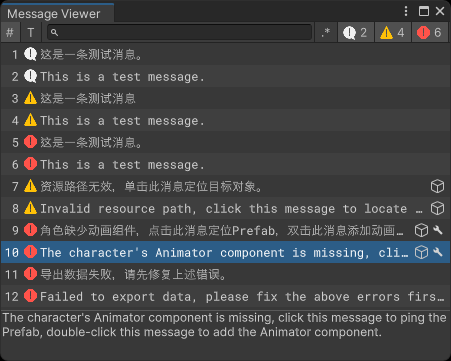
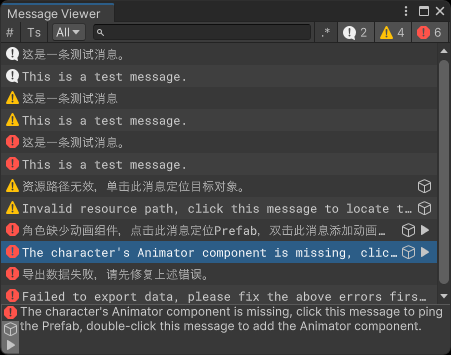
feat: message details tab

Changed region(s): [[0.0, 0.031, 1.0, 1.0], [0.745, 0.093, 0.8071, 0.1239]]

diff --git a/Editor/MessageDetailsElement.cs b/Editor/MessageDetailsElement.cs
@@ -1,4 +1,6 @@
-using UnityEngine.UIElements;
+using System;
+using UnityEditor.VersionControl;
+using UnityEngine.UIElements;
 
 namespace GBG.EditorMessages.Editor
 {
@@ -8,7 +10,8 @@ namespace GBG.EditorMessages.Editor
         private readonly MessageDetailsTabElement _messageTab;
         private readonly MessageDetailsTabElement _contextTab;
         private readonly MessageDetailsTabElement _customDataTab;
-        private readonly Label _detailsLabel;
+        private readonly Label _contentLabel;
+        private Message _message;
 
 
         public MessageDetailsElement()
@@ -69,7 +72,7 @@ namespace GBG.EditorMessages.Editor
             detailsContainer.Add(detailsScrollView);
 
             // Message Details Label
-            _detailsLabel = new Label
+            _contentLabel = new Label
             {
                 enableRichText = true,
                 selection = { isSelectable = true, },
@@ -79,19 +82,44 @@ namespace GBG.EditorMessages.Editor
                     whiteSpace = WhiteSpace.Normal,
                 }
             };
-            detailsScrollView.Add(_detailsLabel);
+            detailsScrollView.Add(_contentLabel);
 
             #endregion
         }
 
         public void SetMessage(Message message)
         {
-            _detailsLabel.text = message?.Content;
+            _message = message;
+
+            MessageType messageType = message?.type ?? MessageType.Info;
+            switch (messageType)
+            {
+                case MessageType.Info:
+                    _messageTab.Icon.image = EditorMessageUtility.GetInfoIcon();
+                    break;
+                case MessageType.Warning:
+                    _messageTab.Icon.image = EditorMessageUtility.GetWarningIcon();
+                    break;
+                case MessageType.Error:
+                    _messageTab.Icon.image = EditorMessageUtility.GetErrorIcon();
+                    break;
+                default:
+                    throw new ArgumentOutOfRangeException(nameof(messageType), messageType, null);
+            }
+
+            _contextTab.style.display = string.IsNullOrEmpty(message?.context)
+                ? DisplayStyle.None : DisplayStyle.Flex;
+            _customDataTab.style.display = string.IsNullOrEmpty(message?.customData)
+                ? DisplayStyle.None : DisplayStyle.Flex;
+
+            OnClickMessageTab();
         }
 
 
         private void OnClickMessageTab()
         {
+            _contentLabel.text = _message?.content;
+
             _messageTab.style.backgroundColor = EditorMessageUtility.ActiveColor;
             _contextTab.style.backgroundColor = EditorMessageUtility.InactiveColor;
             _customDataTab.style.backgroundColor = EditorMessageUtility.InactiveColor;
@@ -99,6 +127,8 @@ namespace GBG.EditorMessages.Editor
 
         private void OnClickContextTab()
         {
+            _contentLabel.text = _message?.context;
+
             _messageTab.style.backgroundColor = EditorMessageUtility.InactiveColor;
             _contextTab.style.backgroundColor = EditorMessageUtility.ActiveColor;
             _customDataTab.style.backgroundColor = EditorMessageUtility.InactiveColor;
@@ -106,6 +136,8 @@ namespace GBG.EditorMessages.Editor
 
         private void OnClickCustomDataTab()
         {
+            _contentLabel.text = _message?.customData;
+
             _messageTab.style.backgroundColor = EditorMessageUtility.InactiveColor;
             _contextTab.style.backgroundColor = EditorMessageUtility.InactiveColor;
             _customDataTab.style.backgroundColor = EditorMessageUtility.ActiveColor;

diff --git a/Editor/MessageElement.cs b/Editor/MessageElement.cs
@@ -138,8 +138,8 @@ namespace GBG.EditorMessages.Editor
             Message = message;
             LineNumber = lineNumber;
             LineNumberLabelWidth = lineNumberLabelWidth;
-            TypeImage.image = EditorMessageUtility.GetMessageTypeIcon(message.Type);
-            ContentLabel.text = message.Content;
+            TypeImage.image = EditorMessageUtility.GetMessageTypeIcon(message.type);
+            ContentLabel.text = message.content;
 
             UpdateLineNumberLabel();
             UpdateTimestampLabel();
@@ -169,14 +169,14 @@ namespace GBG.EditorMessages.Editor
                 return;
             }
 
-            TimestampLabel.text = new DateTime(Message.Timestamp).ToString(CultureInfo.CurrentCulture);
+            TimestampLabel.text = new DateTime(Message.timestamp).ToString(CultureInfo.CurrentCulture);
             TimestampLabel.style.display = DisplayStyle.Flex;
             TimestampSeparatorLabel.style.display = DisplayStyle.Flex;
         }
 
         private void UpdateContextImage()
         {
-            if (string.IsNullOrEmpty(Message.Context))
+            if (string.IsNullOrEmpty(Message.context))
             {
                 ContextImage.style.display = DisplayStyle.None;
                 return;
@@ -188,7 +188,7 @@ namespace GBG.EditorMessages.Editor
 
         private void UpdateCustomDataImage()
         {
-            if (string.IsNullOrEmpty(Message.CustomData))
+            if (string.IsNullOrEmpty(Message.customData))
             {
                 CustomDataImage.style.display = DisplayStyle.None;
                 return;
@@ -208,7 +208,7 @@ namespace GBG.EditorMessages.Editor
                     EditorGUIUtility.PingObject(context);
                 }
             }
-            else if (evt.clickCount == 2 && !string.IsNullOrEmpty(Message?.CustomData))
+            else if (evt.clickCount == 2 && !string.IsNullOrEmpty(Message?.customData))
             {
                 if (WantsToProcessCustomData != null)
                 {
@@ -226,18 +226,18 @@ namespace GBG.EditorMessages.Editor
             GenericMenu menu = new GenericMenu();
 
             // Copy Content
-            menu.AddItem(new GUIContent("Copy Content"), false, () => EditorGUIUtility.systemCopyBuffer = Message.Content);
+            menu.AddItem(new GUIContent("Copy Content"), false, () => EditorGUIUtility.systemCopyBuffer = Message.content);
 
             // Copy Context
-            if (!string.IsNullOrEmpty(Message.Context))
+            if (!string.IsNullOrEmpty(Message.context))
             {
-                menu.AddItem(new GUIContent("Copy Context"), false, () => EditorGUIUtility.systemCopyBuffer = Message.Context);
+                menu.AddItem(new GUIContent("Copy Context"), false, () => EditorGUIUtility.systemCopyBuffer = Message.context);
             }
 
             // Copy Custom Data
-            if (!string.IsNullOrEmpty(Message.CustomData))
+            if (!string.IsNullOrEmpty(Message.customData))
             {
-                menu.AddItem(new GUIContent("Copy Custom Data"), false, () => EditorGUIUtility.systemCopyBuffer = Message.CustomData);
+                menu.AddItem(new GUIContent("Copy Custom Data"), false, () => EditorGUIUtility.systemCopyBuffer = Message.customData);
             }
 
             menu.ShowAsContext();

diff --git a/Editor/MessageViewer.cs b/Editor/MessageViewer.cs
@@ -436,7 +436,7 @@ namespace GBG.EditorMessages.Editor
 
         private bool TestMessageType(Message message)
         {
-            switch (message.Type)
+            switch (message.type)
             {
                 case MessageType.Info:
                     return _showInfoMessages;
@@ -448,7 +448,7 @@ namespace GBG.EditorMessages.Editor
                     return _showErrorMessage;
 
                 default:
-                    throw new ArgumentOutOfRangeException(nameof(message.Type), message.Type, null);
+                    throw new ArgumentOutOfRangeException(nameof(message.type), message.type, null);
             }
 
         }
@@ -457,7 +457,7 @@ namespace GBG.EditorMessages.Editor
         {
             return string.IsNullOrWhiteSpace(_selectedTag) ||
                 string.Equals(_selectedTag, TagAll, StringComparison.OrdinalIgnoreCase) ||
-                string.Equals(_selectedTag, message.Tag, StringComparison.OrdinalIgnoreCase);
+                string.Equals(_selectedTag, message.tag, StringComparison.OrdinalIgnoreCase);
         }
 
         private bool TestMessageSearchPattern(Message message)
@@ -468,7 +468,7 @@ namespace GBG.EditorMessages.Editor
                 return true;
             }
 
-            if (string.IsNullOrEmpty(message.Content))
+            if (string.IsNullOrEmpty(message.content))
             {
                 return false;
             }
@@ -477,7 +477,7 @@ namespace GBG.EditorMessages.Editor
             {
                 try
                 {
-                    return Regex.IsMatch(message.Content, _searchPattern, RegexOptions.IgnoreCase);
+                    return Regex.IsMatch(message.content, _searchPattern, RegexOptions.IgnoreCase);
                 }
                 catch (Exception ex)
                 {
@@ -487,7 +487,7 @@ namespace GBG.EditorMessages.Editor
                 }
             }
 
-            return message.Content.Contains(_searchPattern, StringComparison.OrdinalIgnoreCase);
+            return message.content.Contains(_searchPattern, StringComparison.OrdinalIgnoreCase);
         }
 
         private void TryClose()

diff --git a/Runtime/MessageUtility.cs b/Runtime/MessageUtility.cs
@@ -16,7 +16,7 @@ namespace GBG.EditorMessages
 
             foreach (Message message in messages)
             {
-                switch (message.Type)
+                switch (message.type)
                 {
                     case MessageType.Info:
                         infoCount++;
@@ -28,7 +28,7 @@ namespace GBG.EditorMessages
                         errorCount++;
                         break;
                     default:
-                        throw new ArgumentOutOfRangeException(nameof(message.Type), message.Type, null);
+                        throw new ArgumentOutOfRangeException(nameof(message.type), message.type, null);
                 }
             }
 
@@ -45,7 +45,7 @@ namespace GBG.EditorMessages
             HashSet<string> tags = new HashSet<string>();
             foreach (Message message in messages)
             {
-                string tag = message.Tag ?? string.Empty;
+                string tag = message.tag ?? string.Empty;
                 tags.Add(tag);
             }
 

diff --git a/Editor/MessageBanner.cs b/Editor/MessageBanner.cs
@@ -190,9 +190,9 @@ namespace GBG.EditorMessages.Editor
 
         private void SetMessage(Message message)
         {
-            TypeImage.image = message != null ? EditorMessageUtility.GetMessageTypeIcon(message.Type) : null;
-            ContentLabel.text = message?.Content;
-            ContentLabel.tooltip = message?.Content;
+            TypeImage.image = message != null ? EditorMessageUtility.GetMessageTypeIcon(message.type) : null;
+            ContentLabel.text = message?.content;
+            ContentLabel.tooltip = message?.content;
         }
 
         private void SetMessageCount(MessageType messageType, int count)
